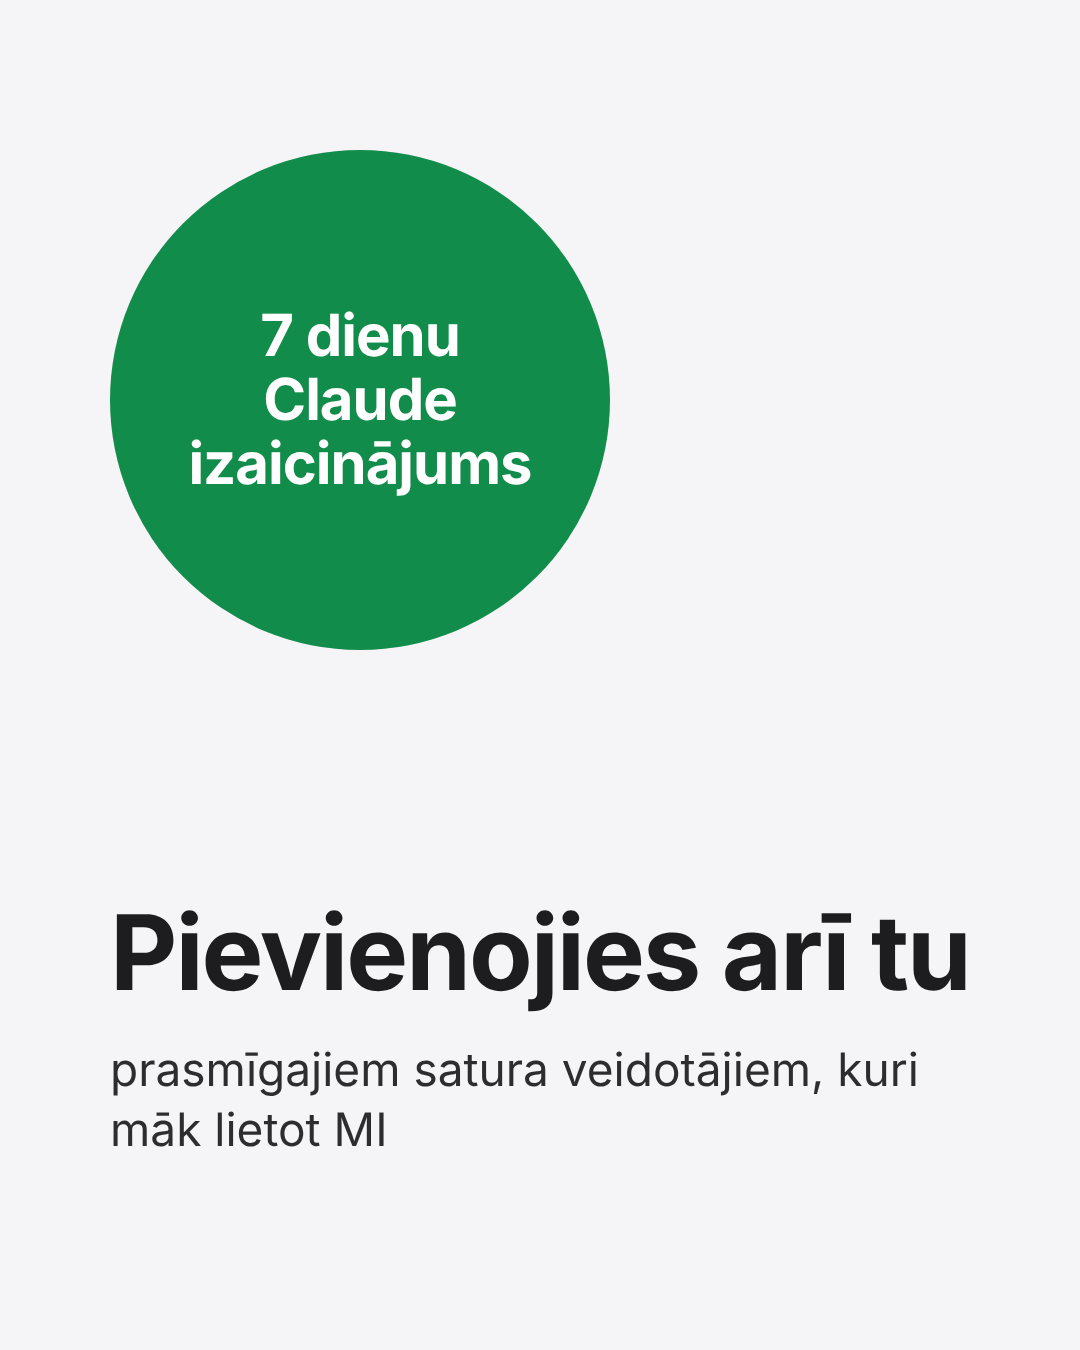
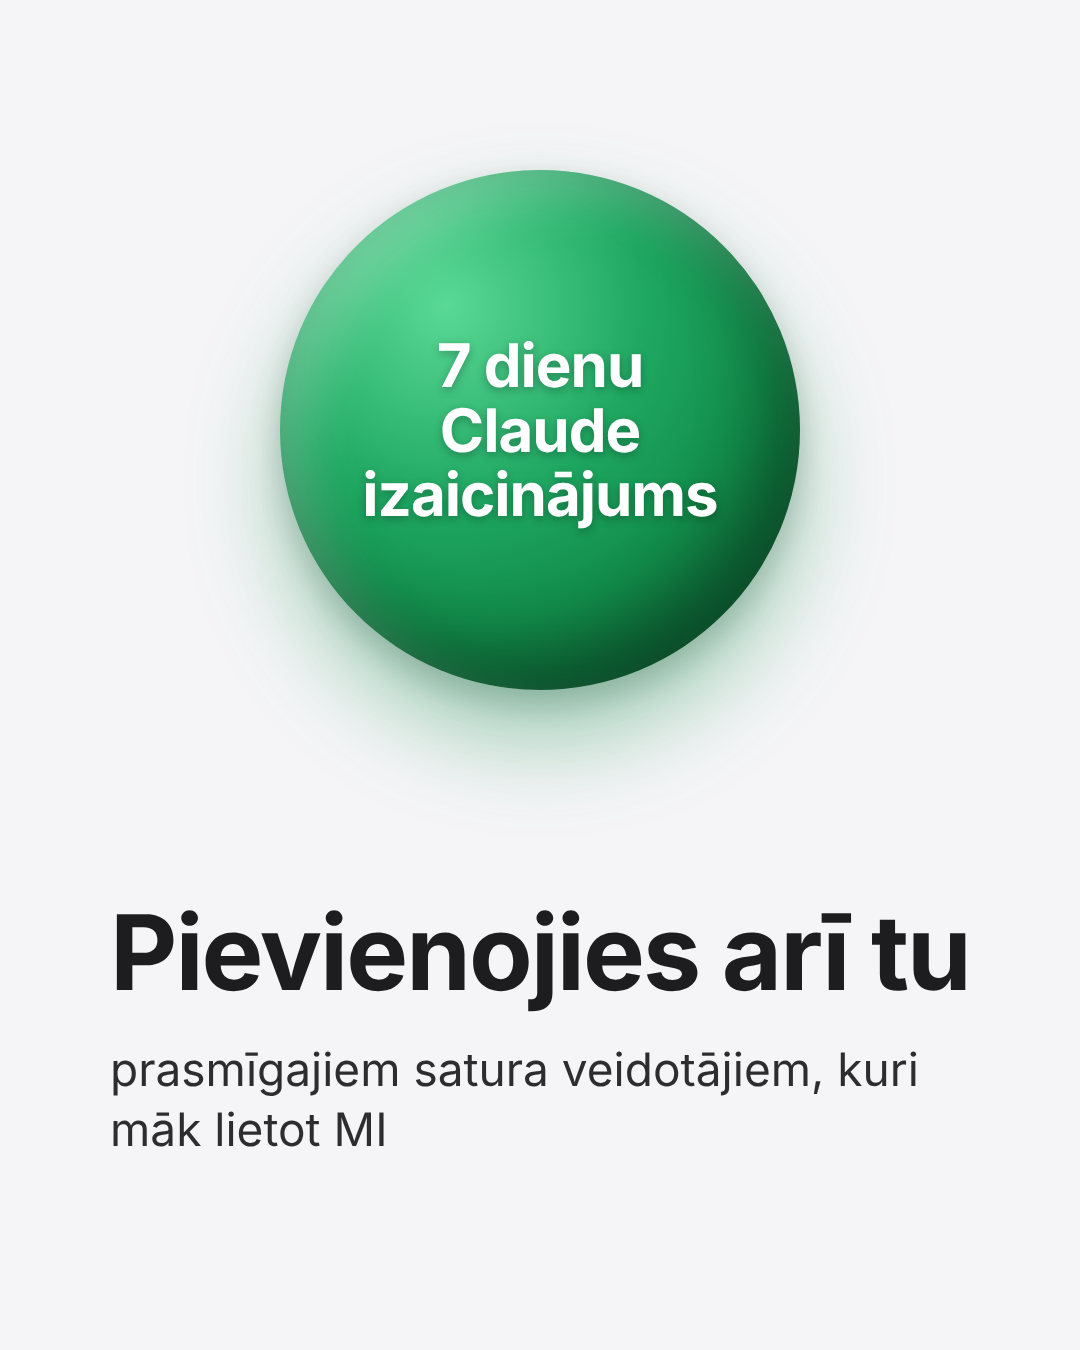
Center 3D sphere badge on CTA slide
Claude-Session: https://claude.ai/code/session_01BfJAaEZY2EfD7nu2Y1Q1pB

Changed region(s): [[0.0917, 0.0933, 0.7639, 0.5911]]

diff --git a/brand/zimols/render.js b/brand/zimols/render.js
@@ -25,7 +25,12 @@ html,body{margin:0;background:#000}
 .footer{margin-top:56px;font-family:${T.font.display};font-size:52px;font-weight:700;color:${C.accent}}
 .photo{position:absolute;inset:0;width:100%;height:100%;object-fit:cover;object-position:50% 15%}
 .shade{position:absolute;inset:0;background:linear-gradient(to bottom,rgba(0,0,0,0) 42%,rgba(29,29,31,.82) 78%,rgba(29,29,31,.92) 100%)}
-.badge{position:absolute;left:110px;top:150px;width:500px;height:500px;border-radius:50%;background:${C.accent};color:${C.accent_ink};display:flex;align-items:center;justify-content:center;text-align:center;padding:56px;box-sizing:border-box;font-family:${T.font.display};font-weight:700;font-size:58px;line-height:1.1;letter-spacing:-1px}
+.badge{position:absolute;left:50%;top:170px;transform:translateX(-50%);width:520px;height:520px;border-radius:50%;
+background:radial-gradient(circle at 32% 26%,#5ad996 0%,#1fa862 38%,${C.accent} 62%,#0a4a27 100%);
+color:${C.accent_ink};display:flex;align-items:center;justify-content:center;text-align:center;padding:70px;box-sizing:border-box;
+font-family:${T.font.display};font-weight:700;font-size:60px;line-height:1.08;letter-spacing:-1px;
+text-shadow:0 3px 10px rgba(0,0,0,.28);
+box-shadow:inset -28px -36px 70px rgba(0,0,0,.32),inset 26px 26px 50px rgba(255,255,255,.28),0 50px 90px rgba(18,140,74,.38),0 14px 30px rgba(0,0,0,.18)}
 .bg-ink{background:${C.ink}} .bg-paper{background:${C.paper};color:${C.ink}} .bg-accent{background:${C.accent};color:${C.accent_ink}}
 .bg-paper .eyebrow{color:${C.accent}} .bg-paper .footer{color:${C.accent}} .bg-paper .list li:before{background:${C.accent}}
 .bg-accent .eyebrow{color:${C.accent_ink}} .bg-accent .footer{color:${C.accent_ink}} .bg-accent .list li:before{background:${C.accent_ink}}
